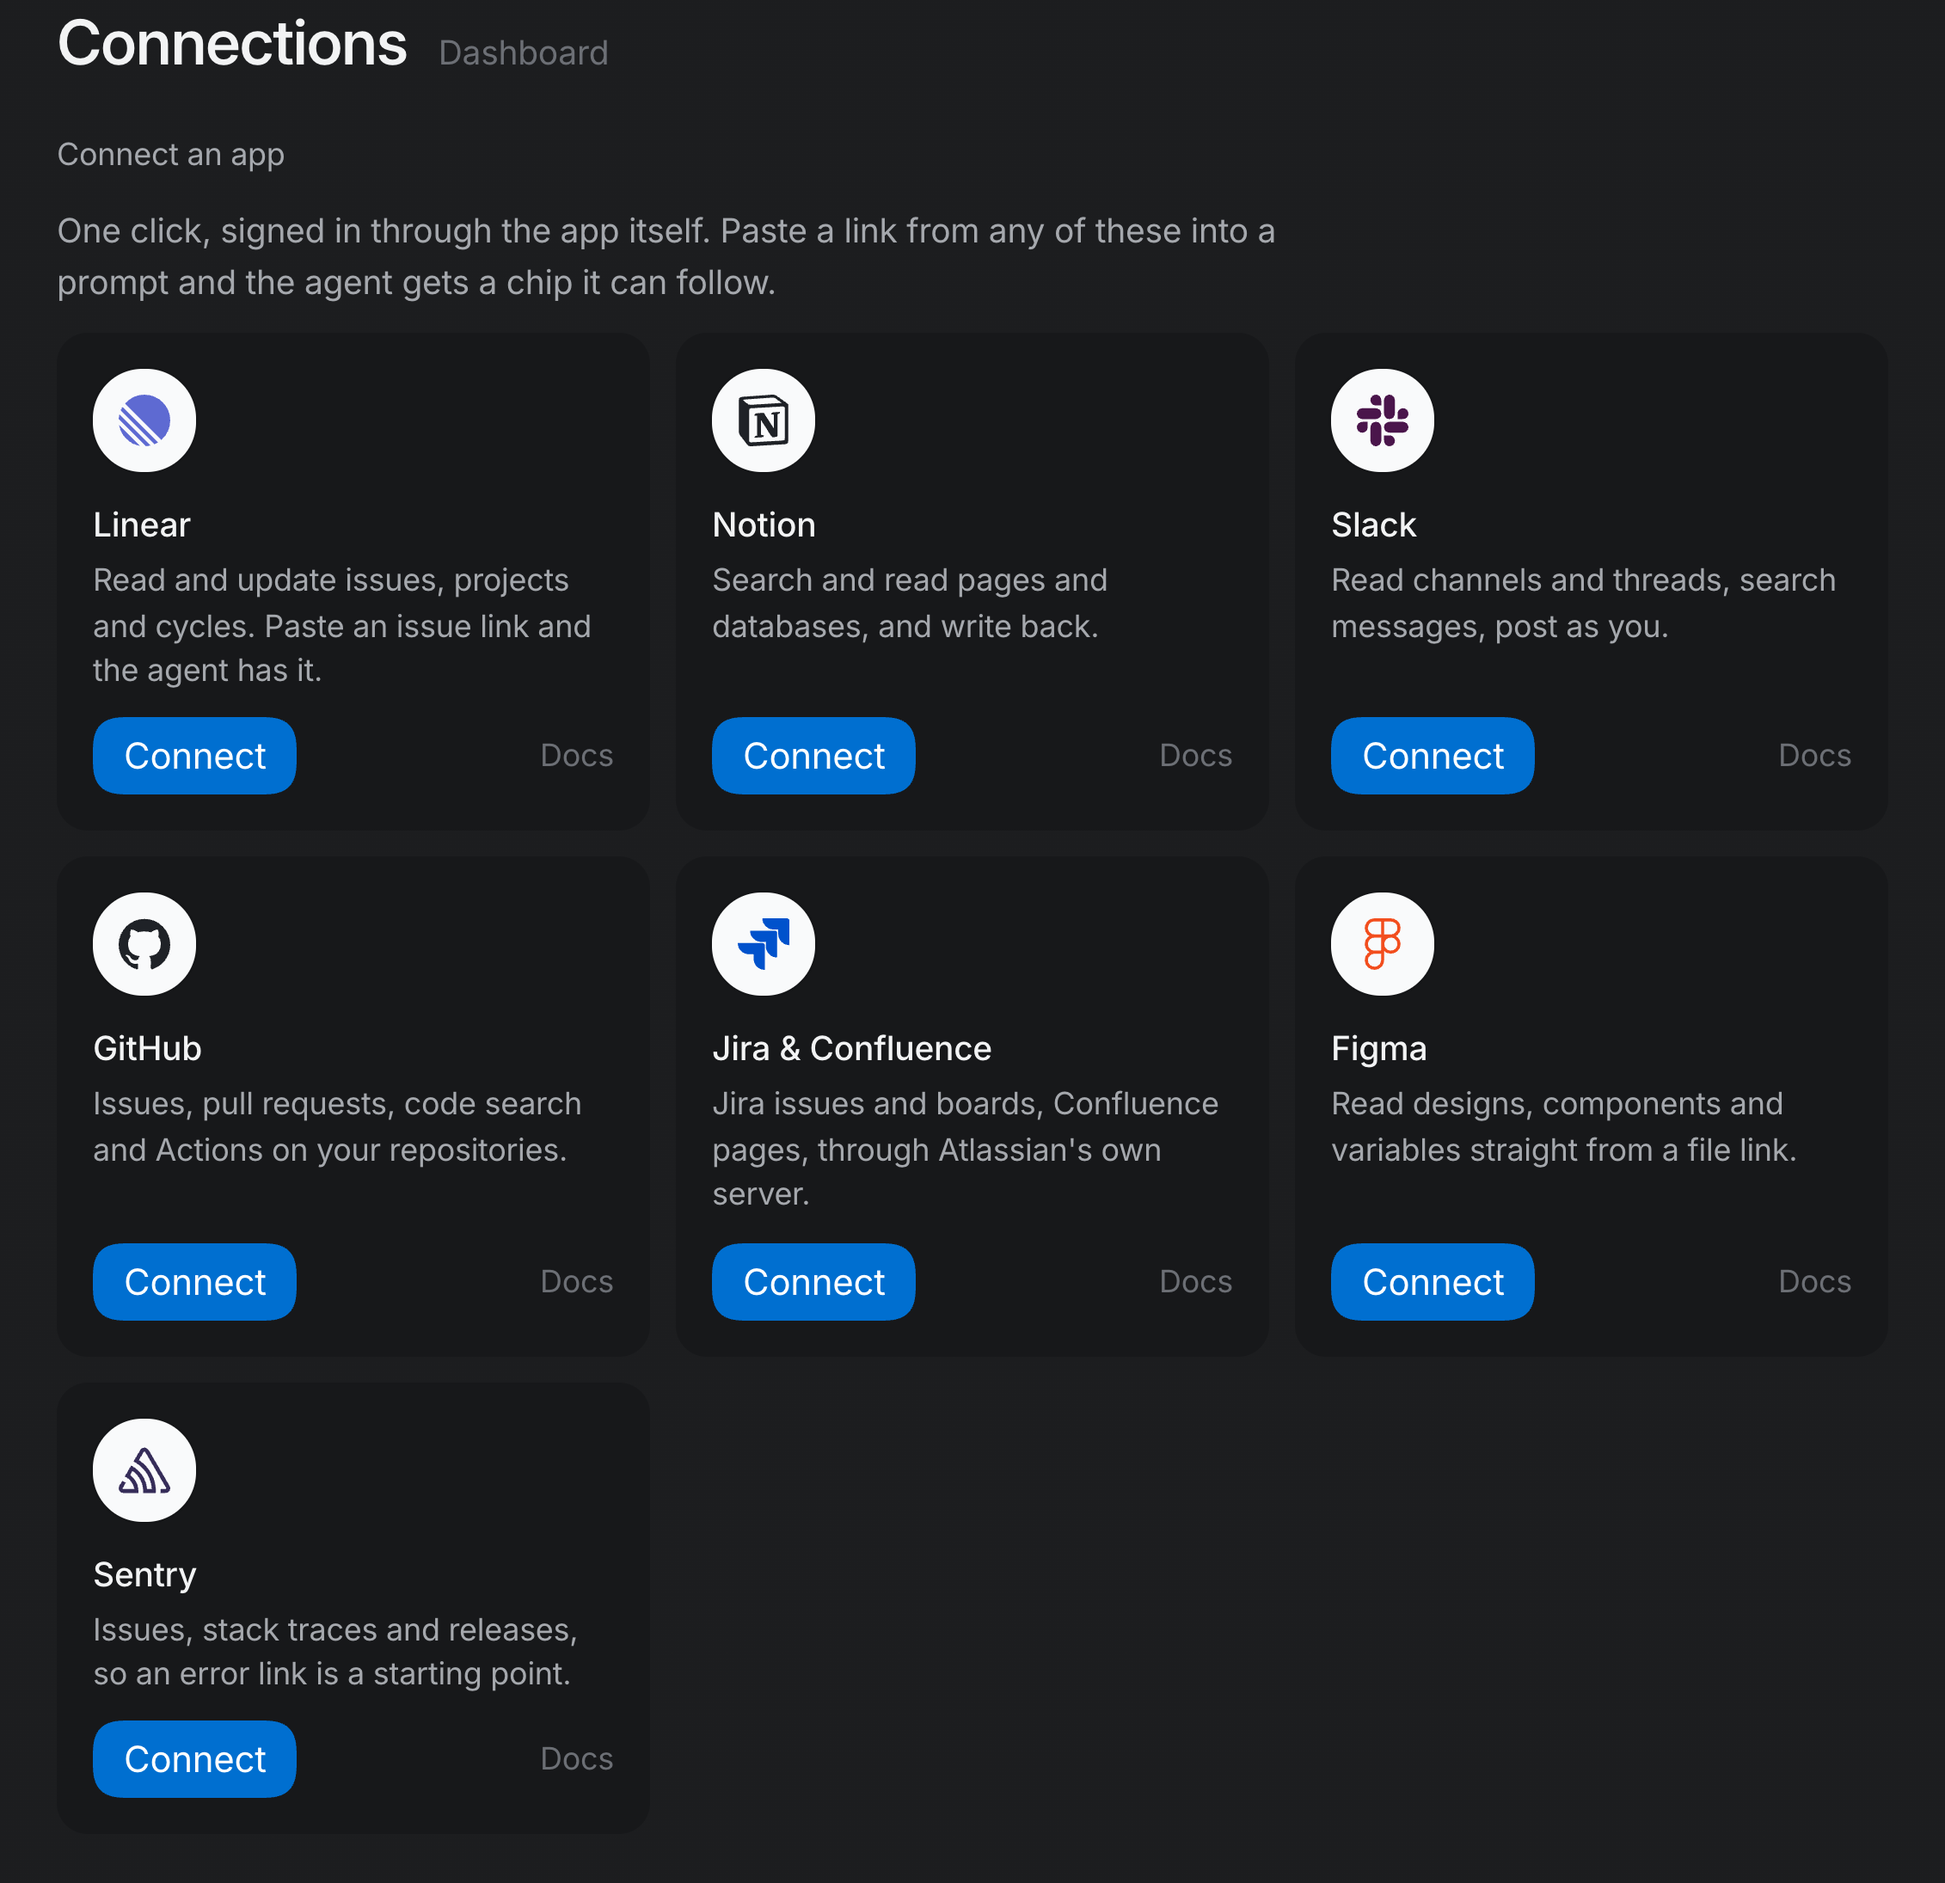
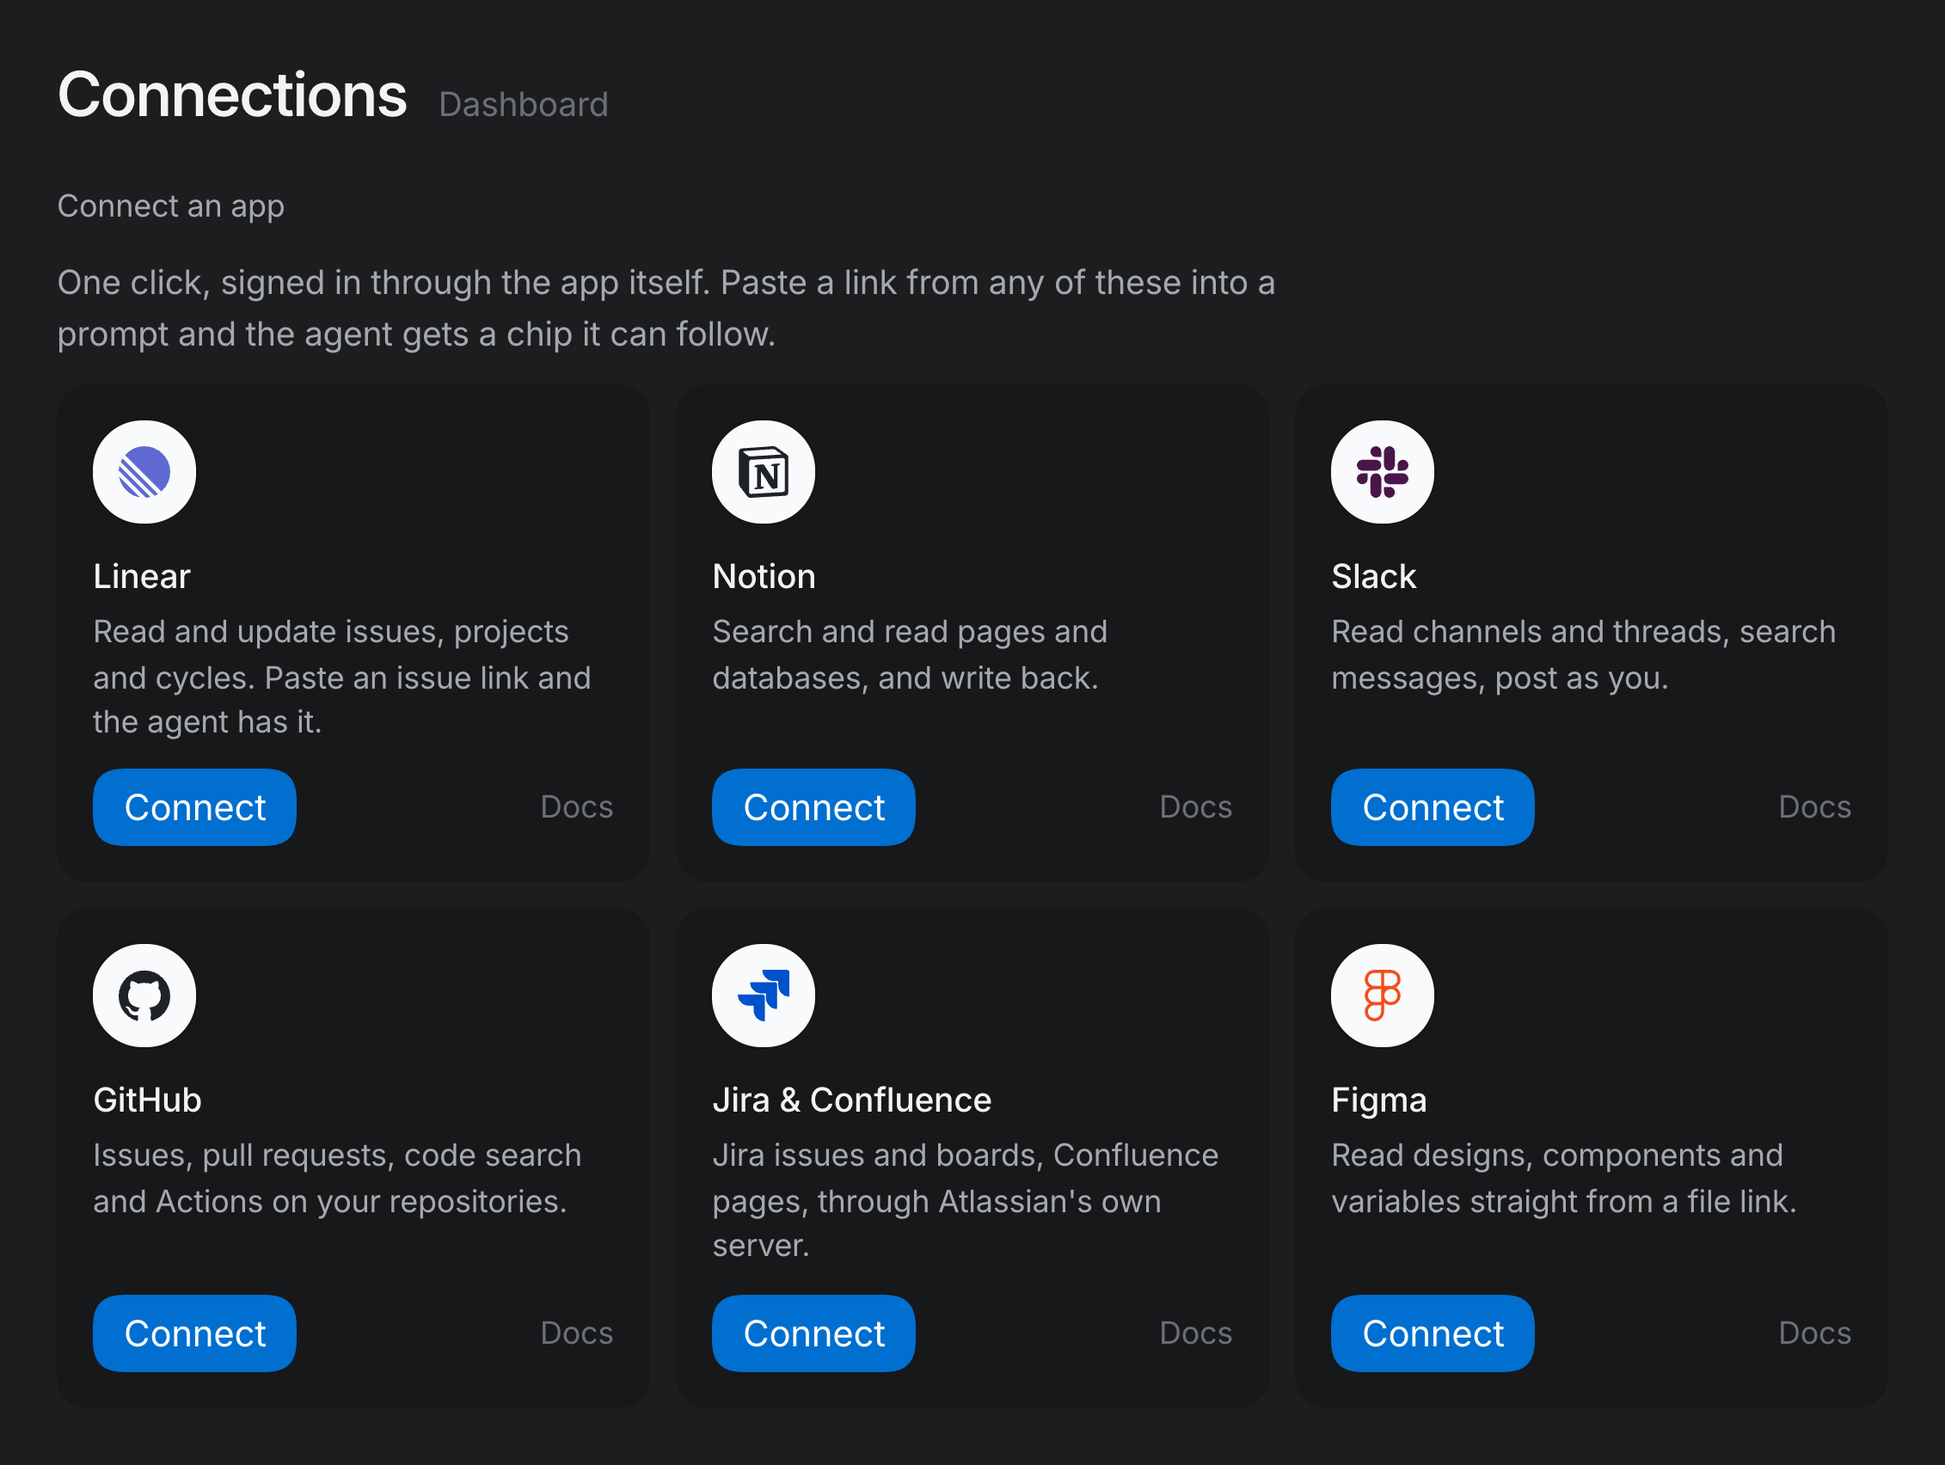
Retake the landing page's pictures from the current build, each composed to end cleanly
Connections is its head with room over it and its first six apps in two full rows, rather than
seven cards with the last alone on a third. The sandbox's label has the margin the rest of the crop
has. The realm opens on the start of a paragraph and is a little larger, and vim scrolls until no
line at its foot is drawn as @. A part can hide what would only show at its edge as a sliver.

diff --git a/site/content/home.ts b/site/content/home.ts
@@ -75,7 +75,7 @@ export const claims: Claim[] = [
       "Linear, Notion, Slack, GitHub, Jira, Figma and Sentry connect to a space in one click. Agents reach them through Realm and never get the credential, and every call is logged.",
     capture: "connections",
     part: "connections",
-    caption: "The apps a space can connect, each with what it lets an agent do and one Connect button.",
+    caption: "Six of the apps a space can connect, each with what it lets an agent do.",
   },
   {
     id: "review",
